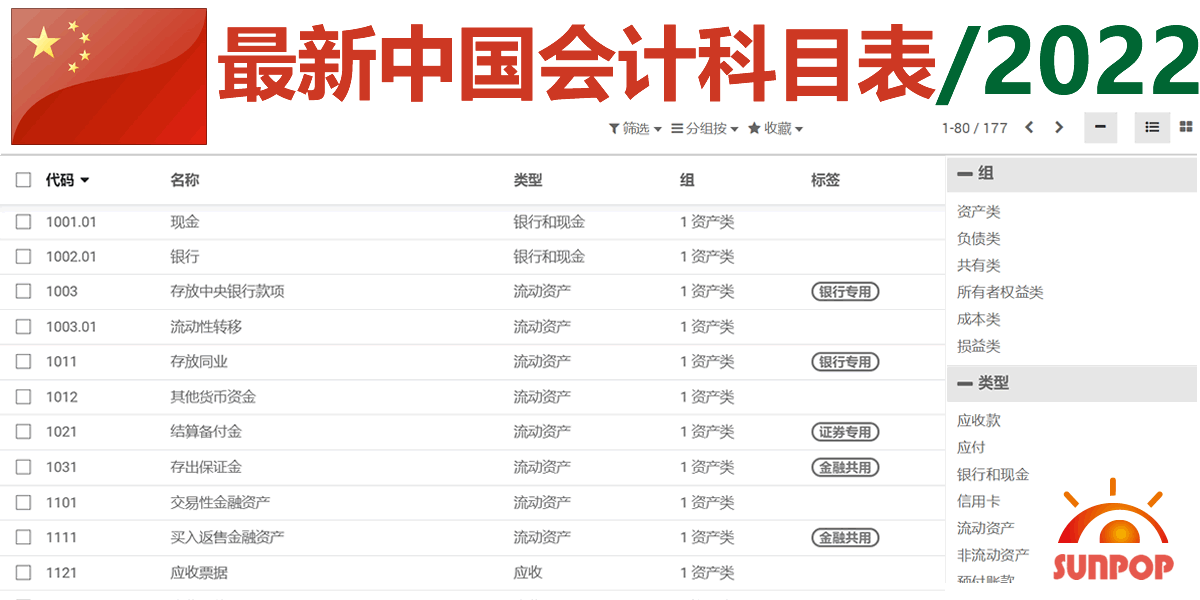
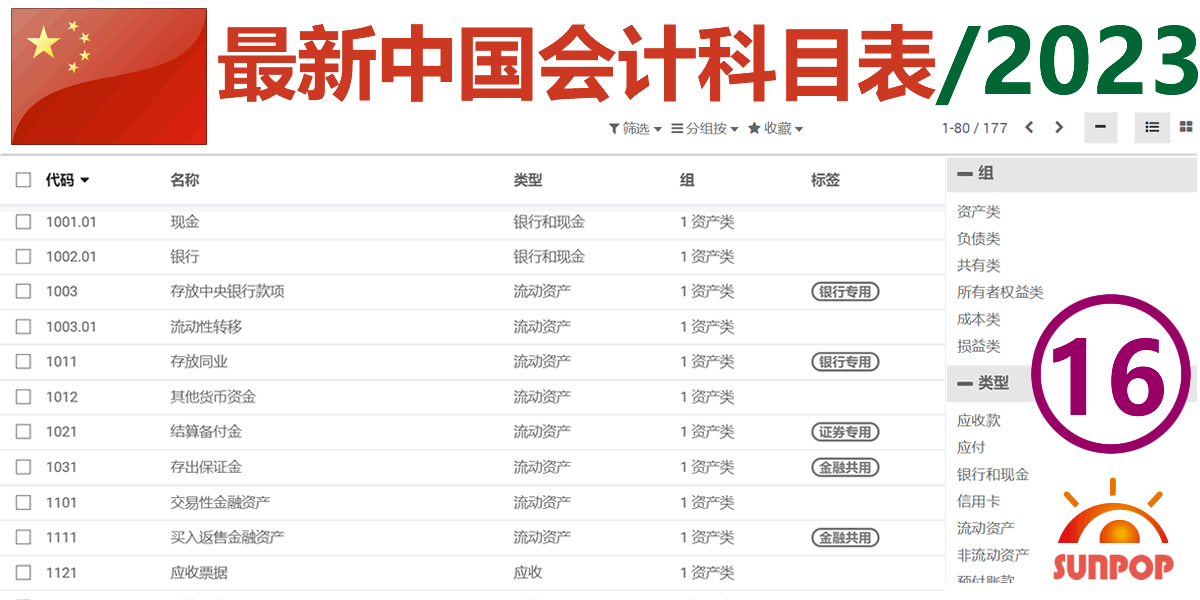
updatel10n_cn_standard_latest_chain completed

Changed region(s): [[0.8325, 0.48, 1.0, 0.78], [0.9558, 0.06, 1.0, 0.18]]

diff --git a/l10n_cn_standard_latest_chain/static/description/index.html b/l10n_cn_standard_latest_chain/static/description/index.html
@@ -1,12 +1,12 @@
-<section class="oe_container">
+<section class="oe_container container">
     <div class="oe_row oe_spaced">
         <div class="oe_span12">
             <h2 class="oe_slogan">App Latest Chinese Account chart 2021.</h2>
             <h3 class="oe_slogan">Set all chinese default value. Like Default country, timezone, currency, partner... </h3>
             <div class="oe_row">
-                <h3>Lastest update: v14.20.06.09</h3>
+                <h3>Lastest update: v16.23.02.14</h3>
                 <div class="oe_span12">
-                    <img class="oe_demo oe_screenshot" src="banner.png" alt="demo">
+                    <img class="oe_demo oe_screenshot img img-fluid" src="banner.png">
                 </div>
                 <div class="oe_span12 oe_spaced">
                     <div class="alert alert-info" style="padding:8px;font-weight: 300; font-size: 20px;">
@@ -14,25 +14,25 @@
                         <ul class="list-unstyled">
                             <li>
                                 <i class="fa fa-check-square-o text-primary"></i>
-                                The Latest Account Chart for Odoo14.
+                                The Latest Account Chart for Odoo16.
                             </li>
                         </ul>
                     </div>
                 </div>
                 <h3 class="oe_slogan">Use super, easy to navigate account data.</h3>
                 <div class="oe_span12">
-                    <img class="oe_demo oe_screenshot" src="superbar1.png">
+                    <img class="oe_demo oe_screenshot img img-fluid" src="superbar1.png">
                 </div>
                 <h3 class="oe_slogan">How to use</h3>
                 <div class="oe_span12">
-                    <img class="oe_demo oe_screenshot" src="cnreadme.png" alt="readme">
+                    <img class="oe_demo oe_screenshot img img-fluid" src="cnreadme.png">
                 </div>
             </div>
         </div>
     </div>
 </section>
 
-<section class="oe_container oe_dark">
+ <section class="container oe_dark">
     <div class="oe_row oe_spaced text-center">
         <div class="oe_span12">
             <h2 class="oe_slogan">Technical Help & Support</h2>
@@ -42,26 +42,26 @@
                 <p><h4>
                 For any type of technical help & support requests, Feel free to contact us</h4></p>
                 <a style="background: #002e5a  none repeat scroll 0% 0%; color: rgb(255, 255, 255);position: relative; overflow: hidden;"
-                   class="btn btn-warning btn-lg" rel="nofollow" href="mailto:info@odoochain.cn"><span
+                   class="btn btn-warning btn-lg" rel="nofollow" href="mailto:guohuadeng@hotmail.com"><span
                         style="height: 354px; width: 354px; top: -147.433px; left: -6.93335px;" class="o_ripple"></span>
                     <i class="fa fa-envelope"></i> guohuadeng@hotmail.com</a>
                 <p><h4>
                 Via QQ: 300883 (App user would not get QQ or any other IM support. Only for odoo project customize.)</h4></p>
                 <a style="background: #002e5a  none repeat scroll 0% 0%; color: rgb(255, 255, 255);position: relative; overflow: hidden;"
-                   class="btn btn-warning btn-lg" rel="nofollow" href="mailto:info@odoochain.cn"><span
+                   class="btn btn-warning btn-lg" rel="nofollow" href="mailto:300883@qq.com"><span
                         style="height: 354px; width: 354px; top: -147.433px; left: -6.93335px;" class="o_ripple"></span>
-                    <i class="fa fa-envelope"></i> info@odoochain.cn</a>
+                    <i class="fa fa-envelope"></i> 300883@qq.com</a>
             </div>
             <div class="oe_mt16">
                 <h4>
                 Visit our website for more support.</h4>
-<h4>https://www.odoochain.cn</h4>
+<h4>https://www.odooai.cn</h4>
             </div>
         </div>
     </div>
     <div class="oe_row oe_spaced text-center">
         <h1>More Powerful addons, Make your odoo very easy to use, easy customize:
-            <a class="btn btn-primary mb16" href="http://www.odoo.com/apps/modules/browse?author=odooChain.cn">OdooChain Addons</a>
+            <a class="btn btn-primary mb16" href="http://www.odoo.com/apps/modules/browse?author=odooai.cn">odooai.cn Odoo Addons</a>
         </h1>
     </div>
 </section>
